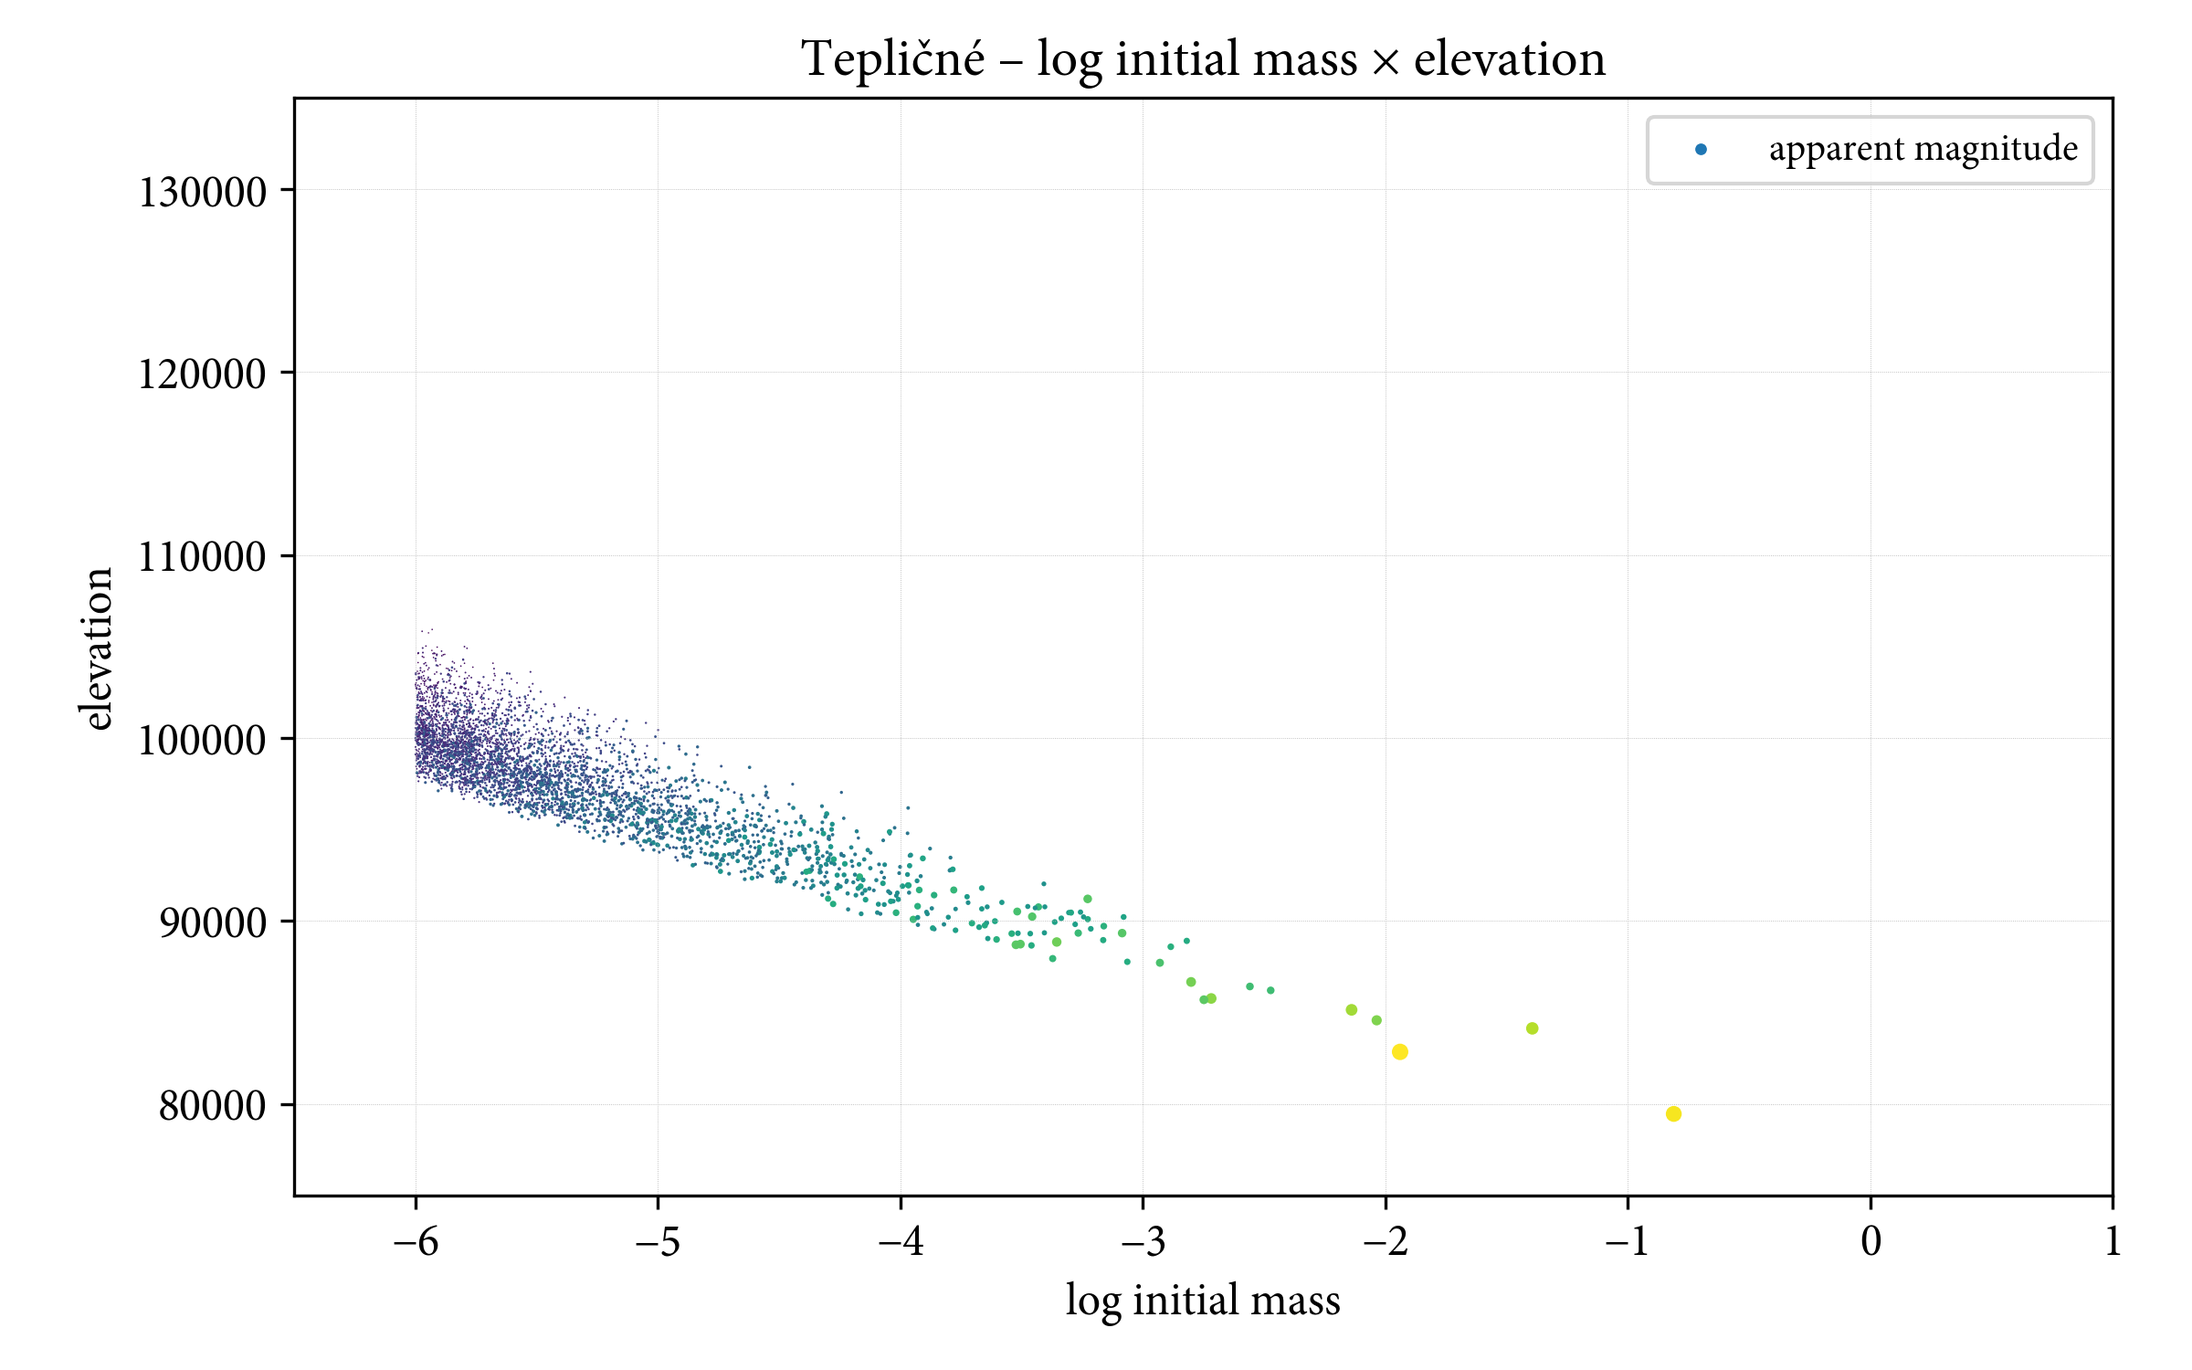
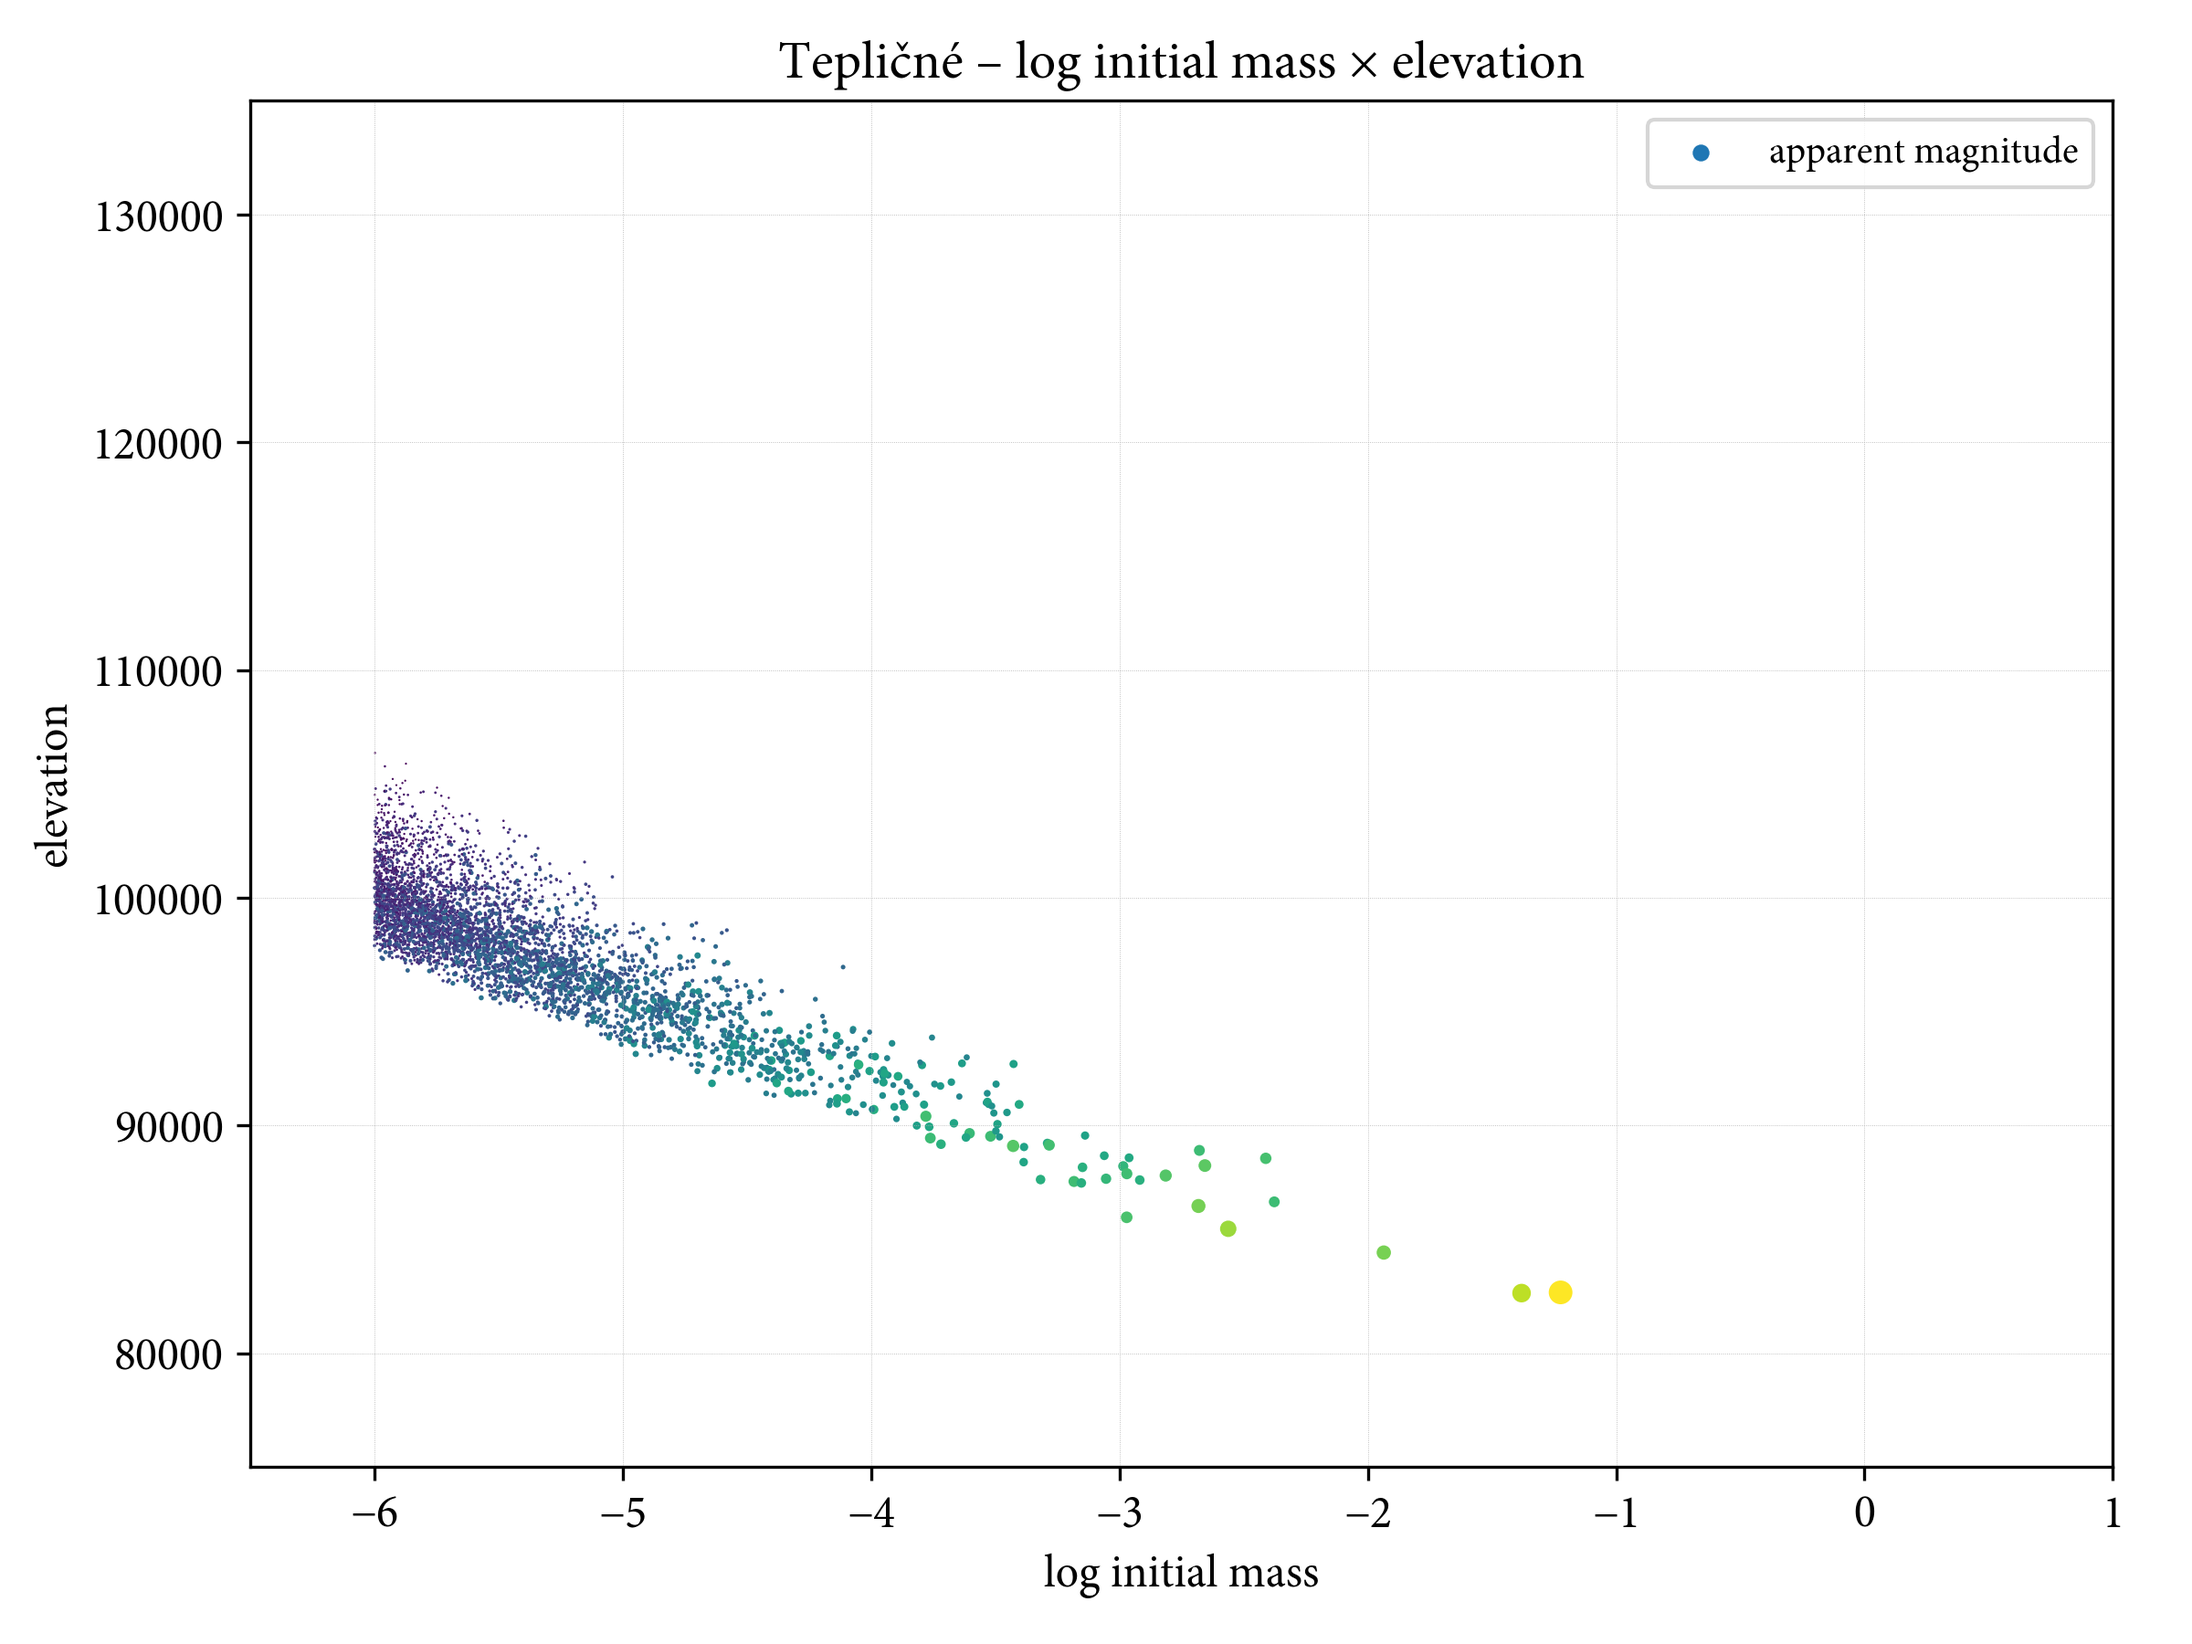
Added pictures, minor improvements

diff --git a/1-spring/meteoroids/meteoroids.tex b/1-spring/meteoroids/meteoroids.tex
@@ -1,4 +1,4 @@
-\documentclass[12pt, aspectratio=1610]{beamer}
+\documentclass[12pt]{beamer}
 \input{../../kvik.sty}
 \input{../../kvik-beamer.sty}
 
@@ -38,7 +38,7 @@
 }
 
 \title{Determination of Meteoroid Flux from Meteor Data after Debiasing by Numerical Simulation}
-\author{\small Martin Baláž \hspace{8mm} Juraj Tóth, PhD. \hspace{8mm} Robert Jedicke, PhD. \hspace{8mm} Peter Vereš, PhD.}
+\author{\small Martin Baláž \\ Juraj Tóth, PhD. \\ Robert Jedicke, PhD. \\ Peter Vereš, PhD.}
 \institute{Meteoroids 2019, Bratislava}
 \date{2019--06--18}
 
@@ -50,7 +50,7 @@
     \section{Overview}
 		\subsection{Overview}
 			\frejm{Contents}{
-				\setbeamersize{description width = 35mm}
+				\setbeamersize{description width = 25mm}
 				\begin{description}
 					\item[aim]				\hspace{5mm}What are we doing?
 					\item[implementation]   \hspace{5mm}How do we do it?
@@ -73,7 +73,7 @@
 				\end{itemize}
 				\vspace{5mm}
 				\pause
-				Let us \emph{simulate} the population and try to match it to observational data!
+				Let us \emph{simulate} the population and try to match it to the data!
 			}
 			
 			\frejm{Algorithm}{
@@ -93,7 +93,7 @@
 						\end{itemize}
                     \pause
 					\item calculate the statistic and compare it with AMOS data 
-					\item adjust the particle distribution and observational bias parameters 
+					\item adjust the particle distribution and bias parameters 
 					\pause
 					\item repeat
 				\end{enumerate}
@@ -103,7 +103,7 @@
     \section{Simulation}
         \subsection{Simulation}
             \frejm{Model}{            
-                Designed by \emph{Whipple} (1938), improved by \emph{Öpik} (1955) and \emph{Ceplecha} (2001)
+                \emph{Whipple} (1938), improved by \emph{Öpik} (1955) and \emph{Ceplecha} (2001)
                 
                 We assume
                 \begin{itemize}
@@ -166,33 +166,20 @@
                 \begin{itemize}
                     \item probability of detection is higher for meteors that are
                     \begin{itemize}
-                        \item bright
-                        \item fast
-                        \item close to zenith
+                        \item brighter
+                        \item slower
+                        \item closer to zenith
                         \item ...
+                    \end{itemize}
+                    \pause
+                    \item for each meteor
+                    \begin{itemize}
+                        \item decide if it is detected
+                        \item based on properties of the brightest frame
+                        \item compare the resulting set to observation
                     \end{itemize}
                 \end{itemize}
             }
-            
-            \frejm{Selection bias}{            
-                Bias summarized in \emph{detection probability functions}
-                \begin{itemize}
-                    \item determine whether a meteor is detected
-                    \item magnitude dependence
-                    $$
-                        D(m; f, m_0, \omega) = \frac{f}{1 + e^{\frac{m - m_0}{\omega}}}
-                    $$
-                    \pause
-                    \item altitudinal dependence
-                    $$
-                        A(\theta; \alpha) = \left(\sin \theta\right)^\alpha
-                    $$
-                    \pause
-                    \item we need to establish values of parameters $f$, $m_0$, $\omega$, $\alpha$
-                    \item assume the effects are \emph{independent}
-                \end{itemize}
-            }        
-            \fspicture{limmag.pdf}[H][white]
             
             \fspicture{angularSpeed-teplicne-dots.png}[H][black]
             \fspicture{angularSpeed-teplicne-biased.png}[H][black]
@@ -261,8 +248,16 @@
 					\item account for statistical noise
 				\end{itemize}
 			}        
-			\fspicture{chiSquare-magnitude-1d8.pdf}[][white]
-			\fspicture{chiSquare-magnitude-1d8z.pdf}[][white]
+            \fspicture{limmag.pdf}[H][white]
+
+            \frejm{Heatmap}{
+                \hspace*{-8mm}%
+                \includegraphics[width = \paperwidth]{chiSquare-magnitude-1d8.pdf}
+            }
+            \frejm{Heatmap -- zooming in}{
+                \hspace*{-8mm}%
+                \includegraphics[width = \paperwidth]{chiSquare-magnitude-1d8z.pdf}
+            }
 			\fspicture{histogram-magnitude-1d8-optimum.pdf}[][white]
 			
 			\frejm{Mass index $s$}{
@@ -295,13 +290,13 @@
 		\subsection{Results}    
 			\frejm{Total flux}{
 				Finally, we may calculate the total flux
+                \pause
 				\begin{itemize}
 					\item simulation is run again with AMOS's \emph{optimal DPF parameters}
 					$$A(\theta) = \left(\sin \theta\right)^{0.4}$$
 					$$D(m) = \frac{0.93}{1 + e^{\frac{m + 0.1}{0.35}}}$$
 					\item the number of meteors is \emph{scaled} to match observations
 				\end{itemize}
-				
 				\pause
 				\begin{itemize}
 					\item \num{135000} particles per \SI{1000000}{\kilo\metre\squared\hour}
@@ -309,12 +304,12 @@
 				\end{itemize}
 			}
 			
-			\frejm{Comparison to known values}{
+			\frejm{Comparison}{
 				\begin{itemize}
 					\item results consistent with recent estimates
 					\begin{itemize}
 						\item \emph{Blaauw et al., 2016}: \num{98000} particles per \SI{1000000}{\kilo\metre\squared\hour}
-						\item \emph{Molau, 2017}: \num{47000} particles per \SI{1000000}{\kilo\metre\squared\hour} (but up to 6.5$^\text{m}$)
+						\item \emph{Molau, 2017}: \num{47000} particles per \SI{1000000}{\kilo\metre\squared\hour} (up to 6.5$^\text{m}$)
 					\end{itemize}
 					\item but a high fraction of small particles ($s = \text{2.15}$)
 				\end{itemize}
@@ -328,10 +323,6 @@
     \section{Conclusion}
 		\subsection{Conclusion}
 			\frejm{Summary}{
-				\begin{itemize}
-					\item we have designed and implemented the simulation
-				\end{itemize}
-				\pause
 				\begin{itemize}
 					\item it is a \emph{surprisingly good} method
 					\begin{itemize}
@@ -351,6 +342,7 @@
                 \pause
 				\begin{itemize}
                     \item the tool will be shared and free to use
+                    \item any comments or suggestions are welcome
 				\end{itemize}
 			}
 			
